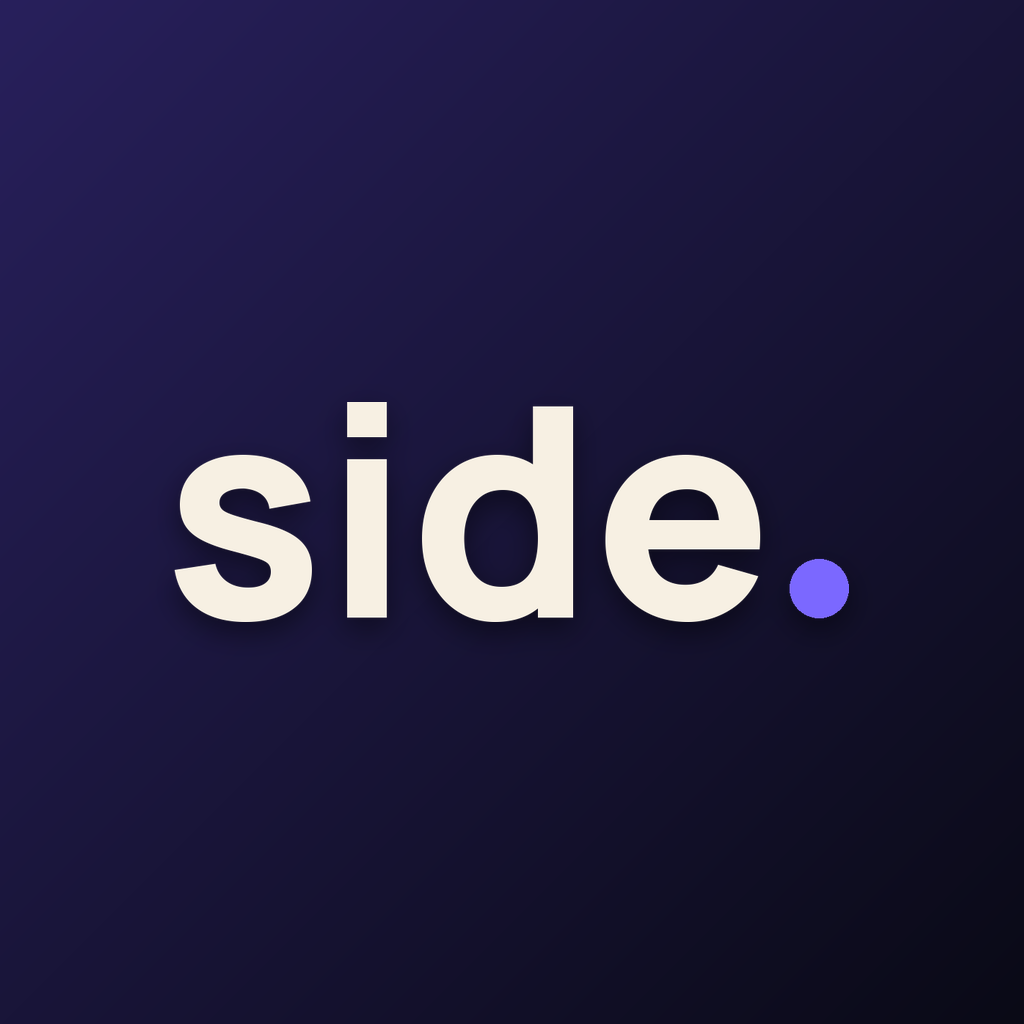
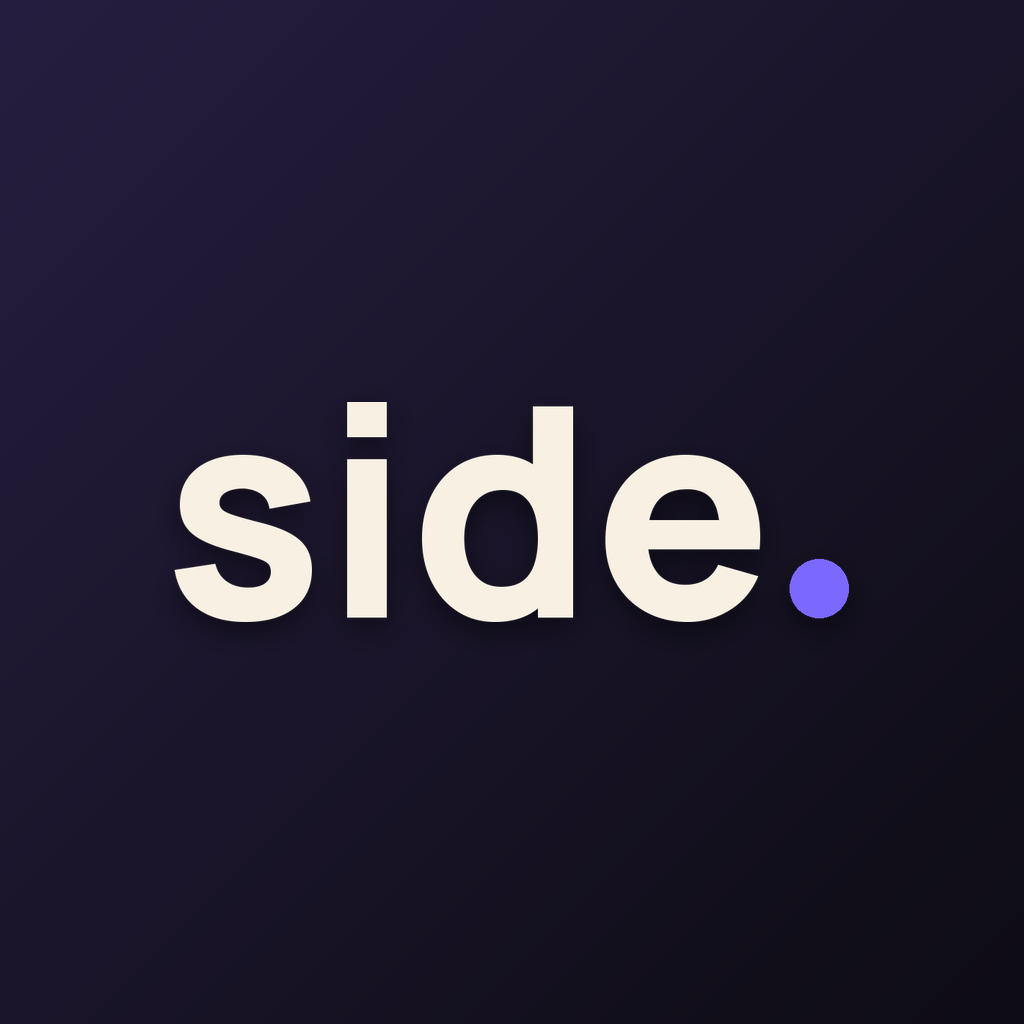
Violet-black background to match the violet color
Claude-Session: https://claude.ai/code/session_01EzK4RhgfqNShm6JarzuSeY

Changed region(s): [[0.0, 0.0, 0.2812, 0.2812]]

diff --git a/src/theme.ts b/src/theme.ts
@@ -1,11 +1,11 @@
-// side's look: "Midnight Cinema". Deep night-blue screens, electric violet like neon cinema lights,
+// side's look: "Midnight Cinema". Deep violet-black screens, electric violet like neon cinema lights,
 // cream text like an old film poster, and a serif display font for titles.
 // Change colours and fonts here to restyle the whole app.
 export const colors = {
-  bg: '#0A0A16',
-  surface: '#14142A',
-  surface2: '#1D1D3A',
-  border: '#2B2B52',
+  bg: '#0E0C14',
+  surface: '#18151F',
+  surface2: '#221E2B',
+  border: '#2F2A3B',
   text: '#F7F0E3',
   textDim: '#A7A2BF',
   /** Electric violet: main buttons, the camera shutter, highlights. */
@@ -20,7 +20,7 @@ export const colors = {
   danger: '#FF7A7A',
   family: '#2E9BE6',
   /** See-through panels that sit on top of videos. */
-  glass: 'rgba(10,10,22,0.72)',
+  glass: 'rgba(14,12,20,0.74)',
   glassBorder: 'rgba(247,240,227,0.14)',
 } as const;
 

diff --git a/src/components/VideoCard.tsx b/src/components/VideoCard.tsx
@@ -174,7 +174,7 @@ export default function VideoCard({
       </Pressable>
 
       <Progress player={player} active={active} />
-      <LinearGradient colors={['transparent', 'rgba(10,10,22,0.85)']} style={styles.bottomShade} pointerEvents="none" />
+      <LinearGradient colors={['transparent', 'rgba(14,12,20,0.85)']} style={styles.bottomShade} pointerEvents="none" />
 
       {/* The "ticket": Side's info panel for every video. */}
       <View style={[styles.ticket, { bottom: bottomInset + 10 }]}>

diff --git a/src/app/welcome.tsx b/src/app/welcome.tsx
@@ -52,7 +52,7 @@ export default function Welcome() {
   };
 
   return (
-    <LinearGradient colors={['#221B4A', colors.bg, colors.bg]} style={{ flex: 1 }}>
+    <LinearGradient colors={['#251E3D', colors.bg, colors.bg]} style={{ flex: 1 }}>
       <SafeAreaView style={{ flex: 1 }}>
         <KeyboardAvoidingView style={{ flex: 1 }} behavior={Platform.OS === 'ios' ? 'padding' : undefined}>
           <ScrollView contentContainerStyle={styles.container} keyboardShouldPersistTaps="handled">

diff --git a/scripts/make-icons.py b/scripts/make-icons.py
@@ -9,7 +9,7 @@ HERE = os.path.dirname(__file__)
 OUT = os.path.join(HERE, '..', 'assets', 'images')
 FONT = os.path.join(HERE, '..', 'node_modules', '@expo-google-fonts', 'manrope', '800ExtraBold', 'Manrope_800ExtraBold.ttf')
 CREAM, VIOLET = (247, 240, 227), (123, 104, 255)
-TOP, BOTTOM = (40, 32, 92), (10, 10, 22)
+TOP, BOTTOM = (38, 30, 64), (14, 12, 20)
 
 
 def gradient(size):

diff --git a/CLAUDE.md b/CLAUDE.md
@@ -14,7 +14,7 @@ them short. Never ask the owner to run terminal commands: run them yourself.
 - `src/ai/director.ts`: the AI Director (pure TS, offline rules). Tested.
 - `src/ai/recommender.ts`: the For You algorithm (watch time, likes, saves, follows, skips,
   "Not interested", freshness, diversity, exploration). Pure TS. Tested.
-- Look: "Midnight Cinema" (`src/theme.ts`): night-blue, electric violet (#7B68FF), cream, Fraunces serif titles + Manrope.
+- Look: "Midnight Cinema" (`src/theme.ts`): violet-black, electric violet (#7B68FF), cream, Fraunces serif titles + Manrope.
   Floating dock menu (`src/components/Dock.tsx`) with a violet camera shutter that opens `src/app/camera.tsx`.
   Videos show a "ticket" info panel and a violet progress line, not a side icon rail.
 - Home is a sideways pager (Following ⇄ For You); each page is a vertical feed (`src/components/VideoFeed.tsx`).
